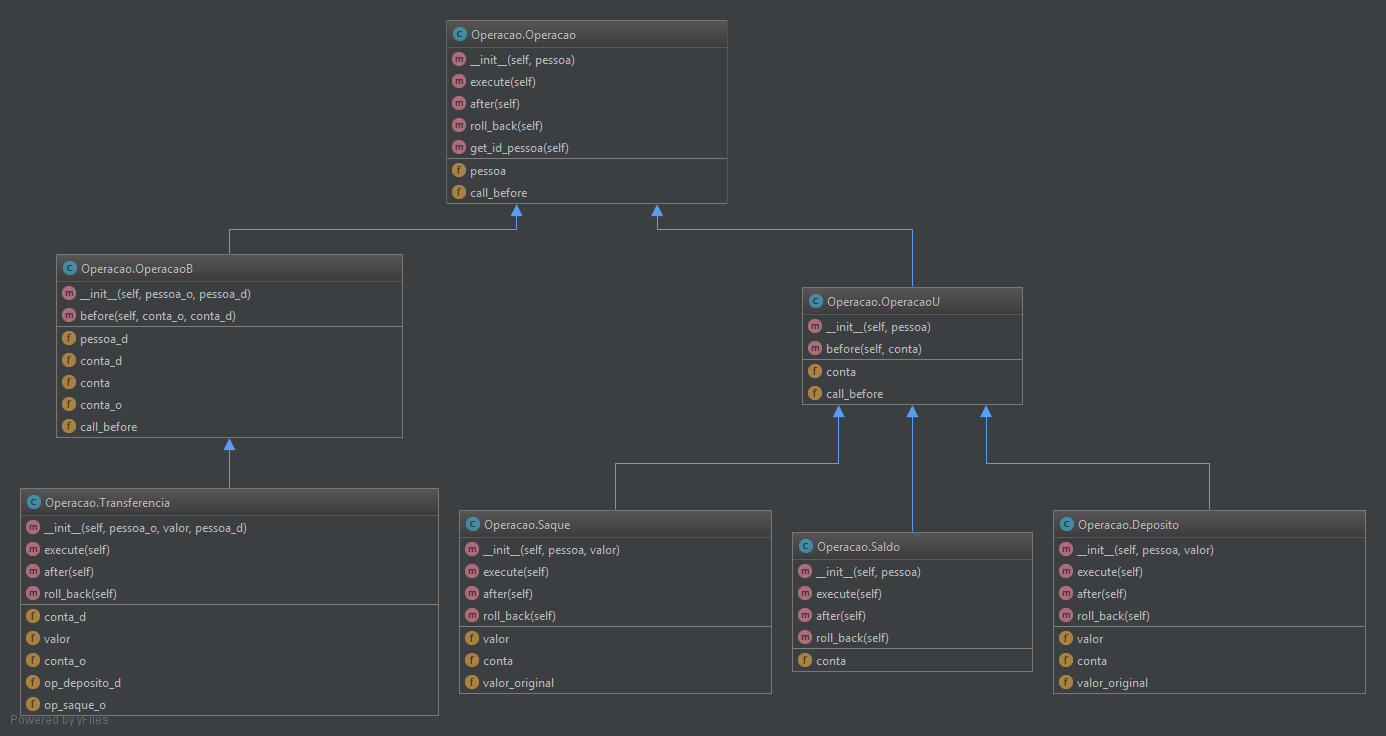
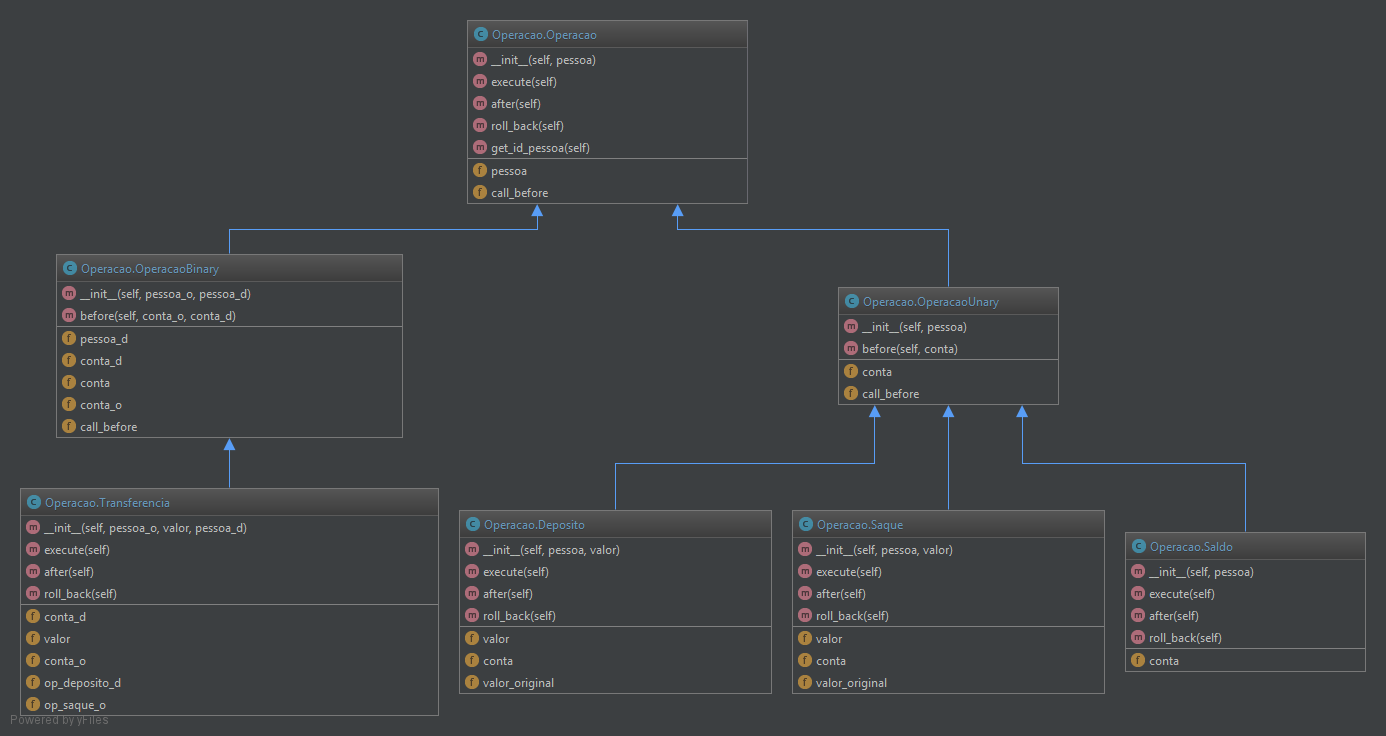
minor fix

diff --git a/Operacao.py b/Operacao.py
@@ -22,10 +22,10 @@ class Operacao(object):
         return self.pessoa.get_id()
 
 
-class OperacaoU(Operacao):
+class OperacaoUnary(Operacao):
     """Operaçções envolvendo apenas uma pessoa"""
     def __init__(self, pessoa):
-        if self.__class__ is OperacaoU:
+        if self.__class__ is OperacaoUnary:
             raise TypeError('abstract class cannot be instantiated')
         Operacao.__init__(self, pessoa)
         self.conta = None
@@ -35,10 +35,10 @@ class OperacaoU(Operacao):
         self.call_before = True
 
 
-class OperacaoB(Operacao):
+class OperacaoBinary(Operacao):
     """Operações envolvendo duas pessoas"""
     def __init__(self, pessoa_o, pessoa_d):
-        if self.__class__ is OperacaoB:
+        if self.__class__ is OperacaoBinary:
             raise TypeError('abstract class cannot be instantiated')
         Operacao.__init__(self, pessoa_o)
         self.pessoa_d = pessoa_d
@@ -50,10 +50,10 @@ class OperacaoB(Operacao):
         self.call_before = True
 
 
-class Saldo(OperacaoU):
+class Saldo(OperacaoUnary):
     """"""
     def __init__(self, pessoa):
-        OperacaoU.__init__(self, pessoa)
+        OperacaoUnary.__init__(self, pessoa)
         self.conta = None
 
     def execute(self):
@@ -73,10 +73,10 @@ class Saldo(OperacaoU):
         pass
 
 
-class Deposito(OperacaoU):
+class Deposito(OperacaoUnary):
     """"""
     def __init__(self, pessoa, valor):
-        OperacaoU.__init__(self, pessoa)
+        OperacaoUnary.__init__(self, pessoa)
         self.valor = valor
         self.conta = None
         self.valor_original = None
@@ -107,10 +107,10 @@ class Deposito(OperacaoU):
         self.conta.dinheiro = self.valor_original
 
 
-class Saque(OperacaoU):
+class Saque(OperacaoUnary):
     """"""
     def __init__(self, pessoa, valor):
-        OperacaoU.__init__(self, pessoa)
+        OperacaoUnary.__init__(self, pessoa)
         self.valor = valor
         self.conta = None
         self.valor_original = None
@@ -141,10 +141,10 @@ class Saque(OperacaoU):
         self.conta.dinheiro = self.valor_original
 
 
-class Transferencia(OperacaoB):
+class Transferencia(OperacaoBinary):
     """"""
     def __init__(self, pessoa_o, valor, pessoa_d):
-        OperacaoB.__init__(self, pessoa_o, pessoa_d)
+        OperacaoBinary.__init__(self, pessoa_o, pessoa_d)
         self.valor = valor
         self.conta_o = None
         self.conta_d = None

diff --git a/Banco.py b/Banco.py
@@ -3,7 +3,7 @@ from Logger import Log
 from time import sleep
 from Caixa import Caixa
 from Conta import Conta
-from Operacao import Operacao, OperacaoU, OperacaoB
+from Operacao import Operacao, OperacaoUnary, OperacaoBinary
 
 
 class Banco(object):
@@ -60,9 +60,9 @@ class Banco(object):
             self.disponivel.wait()
 
         assert isinstance(operacao, Operacao)
-        if isinstance(operacao, OperacaoU):
+        if isinstance(operacao, OperacaoUnary):
             operacao.before(Conta.get_conta(operacao.pessoa.get_id()))
-        elif isinstance(operacao, OperacaoB):
+        elif isinstance(operacao, OperacaoBinary):
             operacao.before(conta_o=Conta.get_conta(operacao.pessoa.get_id()),
                             conta_d=Conta.get_conta(operacao.pessoa_d.get_id()))
 
